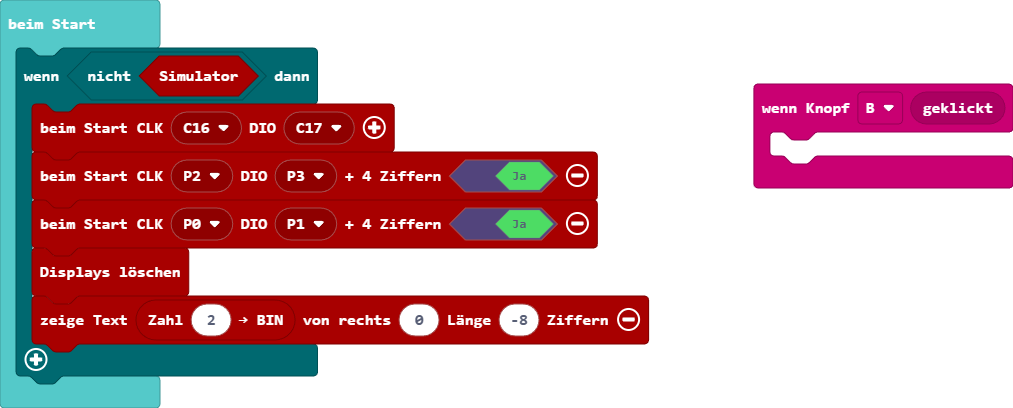
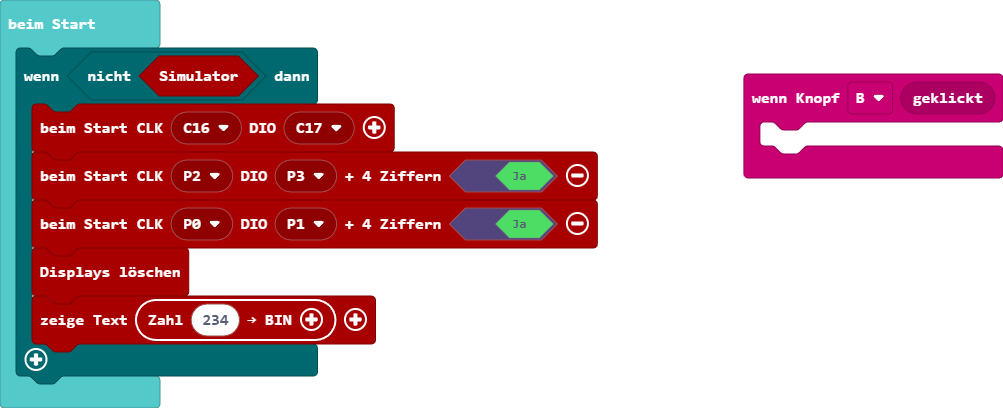
Aktualisiere main.blocks, main.ts, 4_digit_display.ts

diff --git a/4_digit_display.ts b/4_digit_display.ts
@@ -31,7 +31,11 @@ namespace pins {/* 4_digit_display.ts
         }
     }
 
-    //% group="Zeichen 0123456789AbCdEF +-°" subcategory="4-Digit Displays"
+
+
+    // ========== group="Zeichen 0123456789AbCdEF hHLPU +-°" subcategory="4-Digit Displays"
+
+    //% group="Zeichen 0123456789AbCdEF hHLPU +-°" subcategory="4-Digit Displays"
     //% block="zeige Text %hex_string || von rechts %stelle Länge %len Ziffern" weight=9
     //% len.min=-8 len.max=8
     export function d7String(hex_string: string, stelle?: number, len?: number) {
@@ -53,6 +57,16 @@ namespace pins {/* 4_digit_display.ts
                     ][hi]) // HEX Wert 0..15
                 else if (ci == "°")
                     d7_array.push(0b01100011)  // Grad °
+                else if (ci == "H")
+                    d7_array.push(0b01110110)  // H
+                else if (ci == "h")
+                    d7_array.push(0b01110100)  // h
+                else if (ci == "L")
+                    d7_array.push(0b00111000)  // L
+                else if (ci == "P")
+                    d7_array.push(0b01110011)  // P
+                else if (ci == "U")
+                    d7_array.push(0b00111110)  // U
                 else // bei allen ungültigen Zeichen kein push
                     d7_array[d7_array.length - 1] |= 0x80 // Doppelpunkt bei letzter Ziffer an schalten
             }
@@ -69,33 +83,41 @@ namespace pins {/* 4_digit_display.ts
         }
     }
 
-    //% group="Zeichen 0123456789AbCdEF +-°" subcategory="4-Digit Displays"
+    //% group="Zeichen 0123456789AbCdEF hHLPU +-°" subcategory="4-Digit Displays"
     //% block="Zahl %n → Text" weight=6
     export function toText(n: number): string {
         return n.toString()
     }
 
 
-    //% group="Zeichen 0123456789AbCdEF +-°" subcategory="4-Digit Displays"
-    //% block="Zahl %n → HEX" weight=5
-    export function toHex(n: number): string {
+    //% group="Zeichen 0123456789AbCdEF hHLPU +-°" subcategory="4-Digit Displays"
+    //% block="Zahl %n → HEX || %h" weight=5
+    //% h.defl=h
+    export function toHex(n: number, h?: string): string {
         let hex = ""
         do {
             hex = "0123456789AbCdEF".charAt(n % 16) + hex
             n >>= 4 //   n = Math.idiv(n, 16) // Integer-Division in MakeCode
         } while (n > 0)
-        return hex
+        if (h)
+            return h + hex
+        else
+            return hex
     }
 
-    //% group="Zeichen 0123456789AbCdEF +-°" subcategory="4-Digit Displays"
-    //% block="Zahl %n → BIN" weight=4
-    export function toBin(n: number): string {
+    //% group="Zeichen 0123456789AbCdEF hHLPU +-°" subcategory="4-Digit Displays"
+    //% block="Zahl %n → BIN || %b" weight=4
+    //% b.defl=b
+    export function toBin(n: number, b?: string): string {
         let bin = ""
         do {
             bin = "01".charAt(n % 2) + bin
             n = n >> 1
         } while (n > 0)
-        return bin
+        if (b)
+            return b + bin
+        else
+            return bin
     }
 
 
@@ -170,7 +192,6 @@ namespace pins {/* 4_digit_display.ts
         pins.digitalWritePin(clkPin, 1)
         pins.digitalWritePin(dataPin, 1)
     }
-
 
 
 

diff --git a/main.ts b/main.ts
@@ -6,5 +6,5 @@ if (!(pins.simulator())) {
     pins.d4CreateDisplay(pins.pins_DigitalPin(DigitalPin.P2), pins.pins_DigitalPin(DigitalPin.P3), true)
     pins.d4CreateDisplay(pins.pins_DigitalPin(DigitalPin.P0), pins.pins_DigitalPin(DigitalPin.P1), true)
     pins.d4Clear()
-    pins.d7String(pins.toBin(2), 0, -8)
+    pins.d7String(pins.toBin(234))
 }
